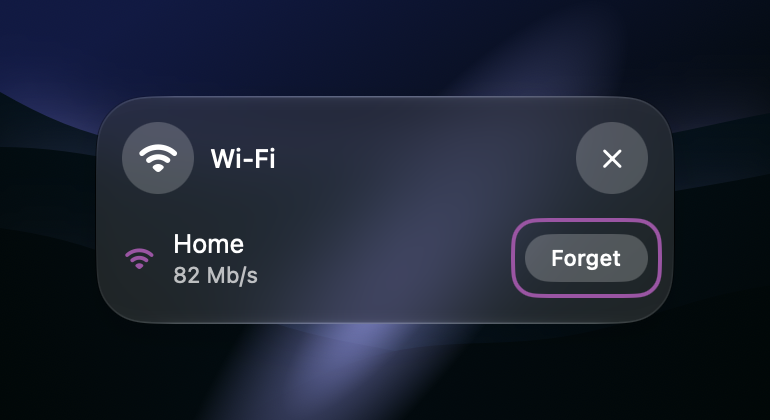
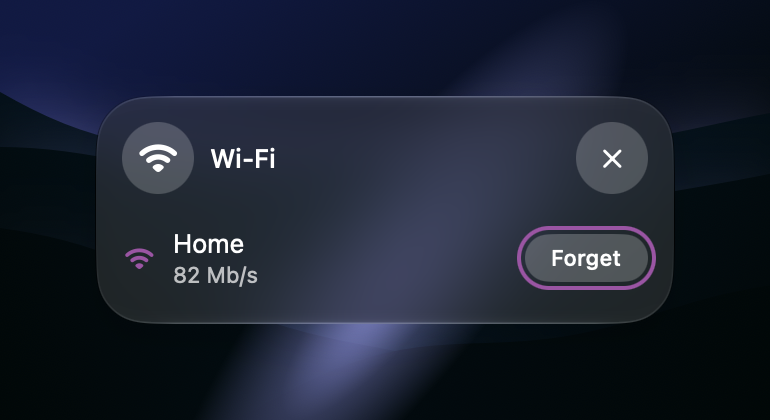
The focus ring of a part follows the shape of its control, so a rounded-full chip gets a capsule ring with the same gap all round
Claude-Session: https://claude.ai/code/session_012gihbLHe8FTGKag9JGB69C

Changed region(s): [[0.6545, 0.4952, 0.8727, 0.7119]]

diff --git a/app/Shell/Node/NodePartFrame.swift b/app/Shell/Node/NodePartFrame.swift
@@ -21,52 +21,45 @@ struct NodePartFrame<Content: View>: View {
     private var sheet: some View {
         let natural = node.naturalSize
         let height = natural.height
+        let ring = FocusRing(part: part, look: look, hasLabel: hasLabel, surface: surface)
+        let hugs = part.isFocusable && ring.hugsControl
         return Group {
             if hasLabel {
                 content(natural)
             } else if part.fillsHeight {
                 GeometryReader { room in
-                    content(room.size)
+                    content(room.size).modifier(PartRing(id: part.id, host: context.host, ring: ring, isShown: hugs))
                 }
                 .frame(minHeight: height, idealHeight: height)
                 .frame(idealWidth: natural.width)
             } else {
                 content(CGSize(width: SpotTokens.partsWidth, height: height))
+                    .modifier(PartRing(id: part.id, host: context.host, ring: ring, isShown: hugs))
                     .frame(maxWidth: part.fillsWidth(as: look) ? .infinity : nil, minHeight: height, maxHeight: .infinity, alignment: part.fillsWidth(as: look) ? .leading : .center)
             }
         }
         .background {
-            if part.isFocusable {
-                Color.clear.modifier(PartRing(id: part.id, host: context.host, hasBox: hasLabel || hasBox, shape: SpotRoundShape(surface.inner())))
-            }
-        }
-    }
-
-    private var hasBox: Bool {
-        if part.isEditable || look == .tile { return true }
-        guard part.press == .line else { return false }
-        return switch look {
-        case .chip, .bare: false
-        default: true
+            Color.clear.modifier(PartRing(id: part.id, host: context.host, ring: ring, isShown: part.isFocusable && !ring.hugsControl))
         }
     }
 }
 
 private struct PartRing: ViewModifier {
-    @Environment(\.spotSurfaceEdge) private var surface
     let id: String
     let host: any NodeHost
-    let hasBox: Bool
-    let shape: SpotRoundShape
+    let ring: FocusRing
+    let isShown: Bool
 
     func body(content: Content) -> some View {
-        let isSelected = host.selectedPart == id
-        if hasBox {
-            let gap = SpotTokens.focusGap
-            let ring = SpotRoundShape(surface.inner(by: SpotTokens.padding - gap))
-            content.modifier(SpotSelectionRing(isSelected: isSelected, shape: ring)).padding(-gap)
+        if isShown {
+            content.overlay {
+                Color.clear
+                    .modifier(SpotSelectionRing(isSelected: host.selectedPart == id, shape: SpotRoundShape(ring.edge)))
+                    .padding(.horizontal, -ring.outset.width)
+                    .padding(.vertical, -ring.outset.height)
+            }
         } else {
-            content.modifier(SpotSelectionRing(isSelected: isSelected, shape: shape)).padding(.horizontal, -SpotTokens.controlPadding)
+            content
         }
     }
 }

diff --git a/app/Tests/FocusRingTests.swift b/app/Tests/FocusRingTests.swift
@@ -1,0 +1,39 @@
+import XCTest
+@testable import OpenspotCore
+
+final class FocusRingTests: XCTestCase {
+    private let frame = Frame(text: """
+    frame=
+    class=gap-part
+
+    button=chip
+    title=Forget
+    class=rounded-full
+
+    button=plain
+    title=Join
+
+    button=row
+    title=Open
+    class=bg-transparent
+
+    """)
+
+    private func ring(of id: String) throws -> FocusRing {
+        let part = try XCTUnwrap(frame.parts.first { $0.id == id })
+        return FocusRing(part: part, look: frame.tree.look(of: id), surface: .sheet)
+    }
+
+    func testTheRingOfARoundedFullButtonIsACapsuleAroundTheButtonWithTheSameGapAllRound() throws {
+        let gap = SpotTokens.focusGap
+
+        XCTAssertEqual(try ring(of: "chip"), FocusRing(edge: SurfaceEdge(radius: .infinity), outset: CGSize(width: gap, height: gap), hugsControl: true))
+    }
+
+    func testAPlainButtonAndARowKeepTheirRings() throws {
+        let gap = SpotTokens.focusGap
+
+        XCTAssertEqual(try ring(of: "plain"), FocusRing(edge: SurfaceEdge.sheet.inner(by: SpotTokens.padding - gap), outset: CGSize(width: gap, height: gap)))
+        XCTAssertEqual(try ring(of: "row"), FocusRing(edge: SurfaceEdge.sheet.inner(), outset: CGSize(width: SpotTokens.controlPadding, height: 0)))
+    }
+}

diff --git a/app/Core/Tree/FocusRing.swift b/app/Core/Tree/FocusRing.swift
@@ -1,0 +1,31 @@
+import Foundation
+
+public struct FocusRing: Equatable, Sendable {
+    public let edge: SurfaceEdge
+    public let outset: CGSize
+    public let hugsControl: Bool
+
+    public init(edge: SurfaceEdge, outset: CGSize, hugsControl: Bool = false) {
+        self.edge = edge
+        self.outset = outset
+        self.hugsControl = hugsControl
+    }
+
+    public init(part: SpotPart, look: SpotPart.Look?, hasLabel: Bool = false, surface: SurfaceEdge) {
+        let gap = SpotTokens.focusGap
+        let around = CGSize(width: gap, height: gap)
+        let box = FocusRing(edge: surface.inner(by: SpotTokens.padding - gap), outset: around)
+        let row = FocusRing(edge: surface.inner(), outset: CGSize(width: SpotTokens.controlPadding, height: 0))
+        if hasLabel || part.isEditable || look == .tile {
+            self = box
+        } else if part.press != .line {
+            self = row
+        } else {
+            switch look {
+            case .chip: self.init(edge: SurfaceEdge(radius: .infinity), outset: around, hugsControl: true)
+            case .bare: self = row
+            default: self = box
+            }
+        }
+    }
+}
